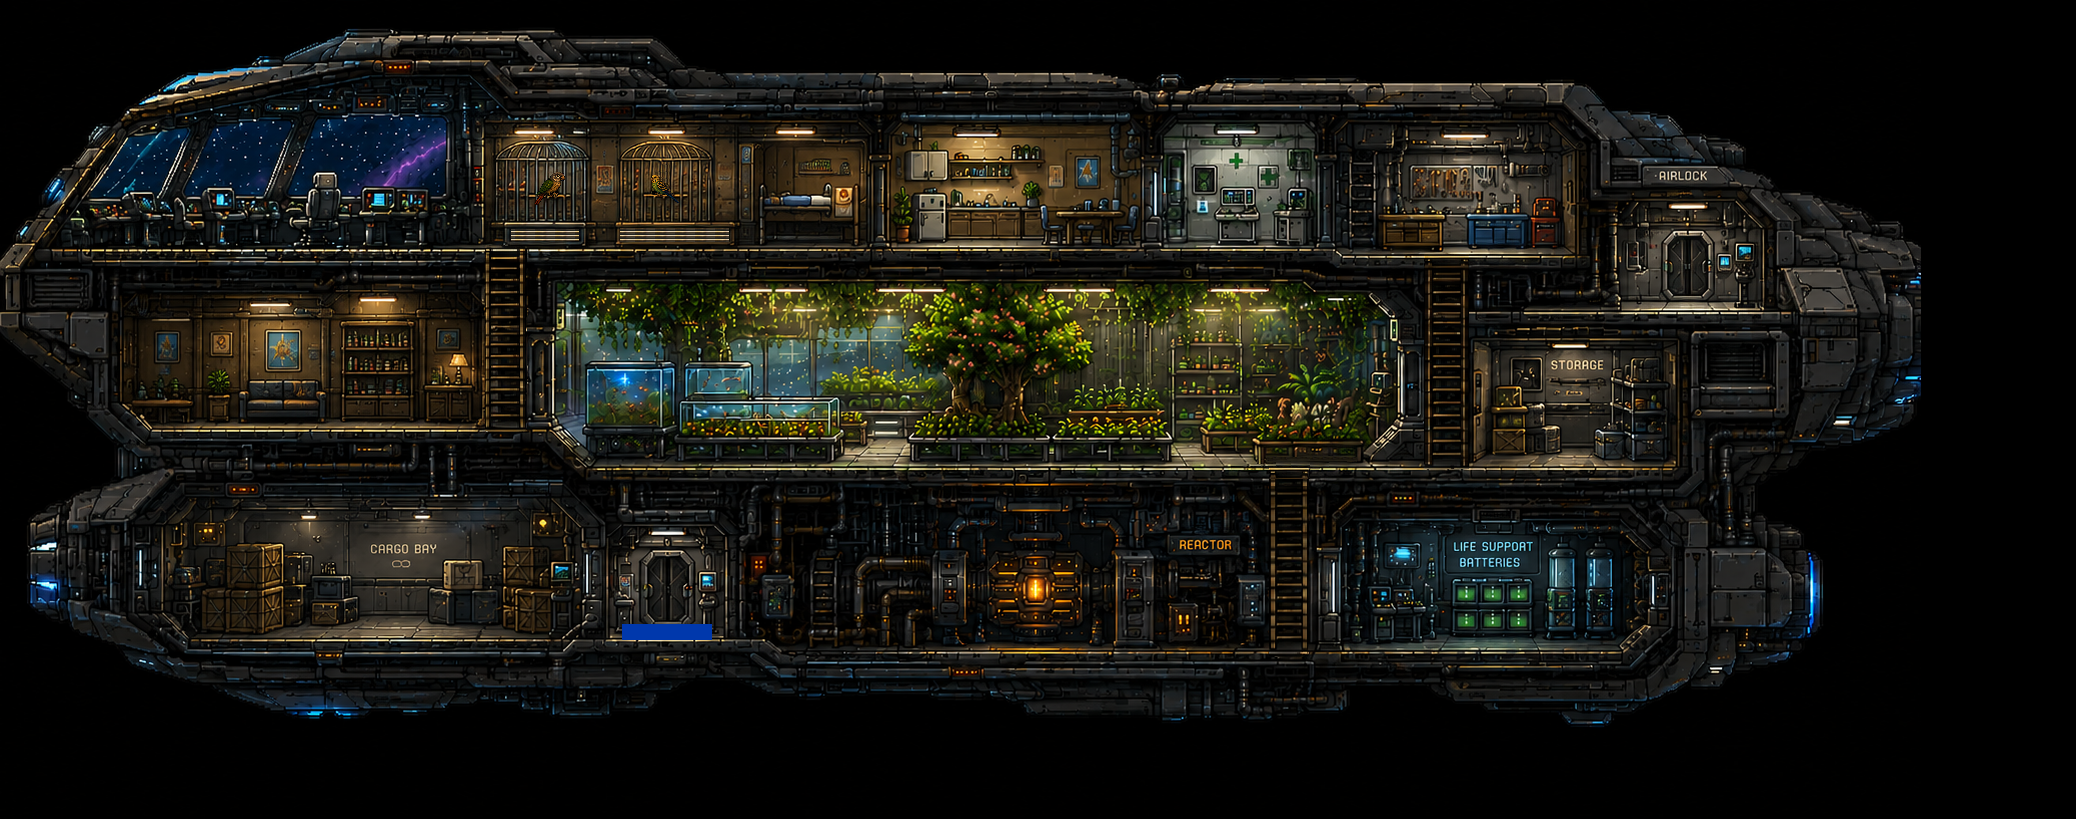
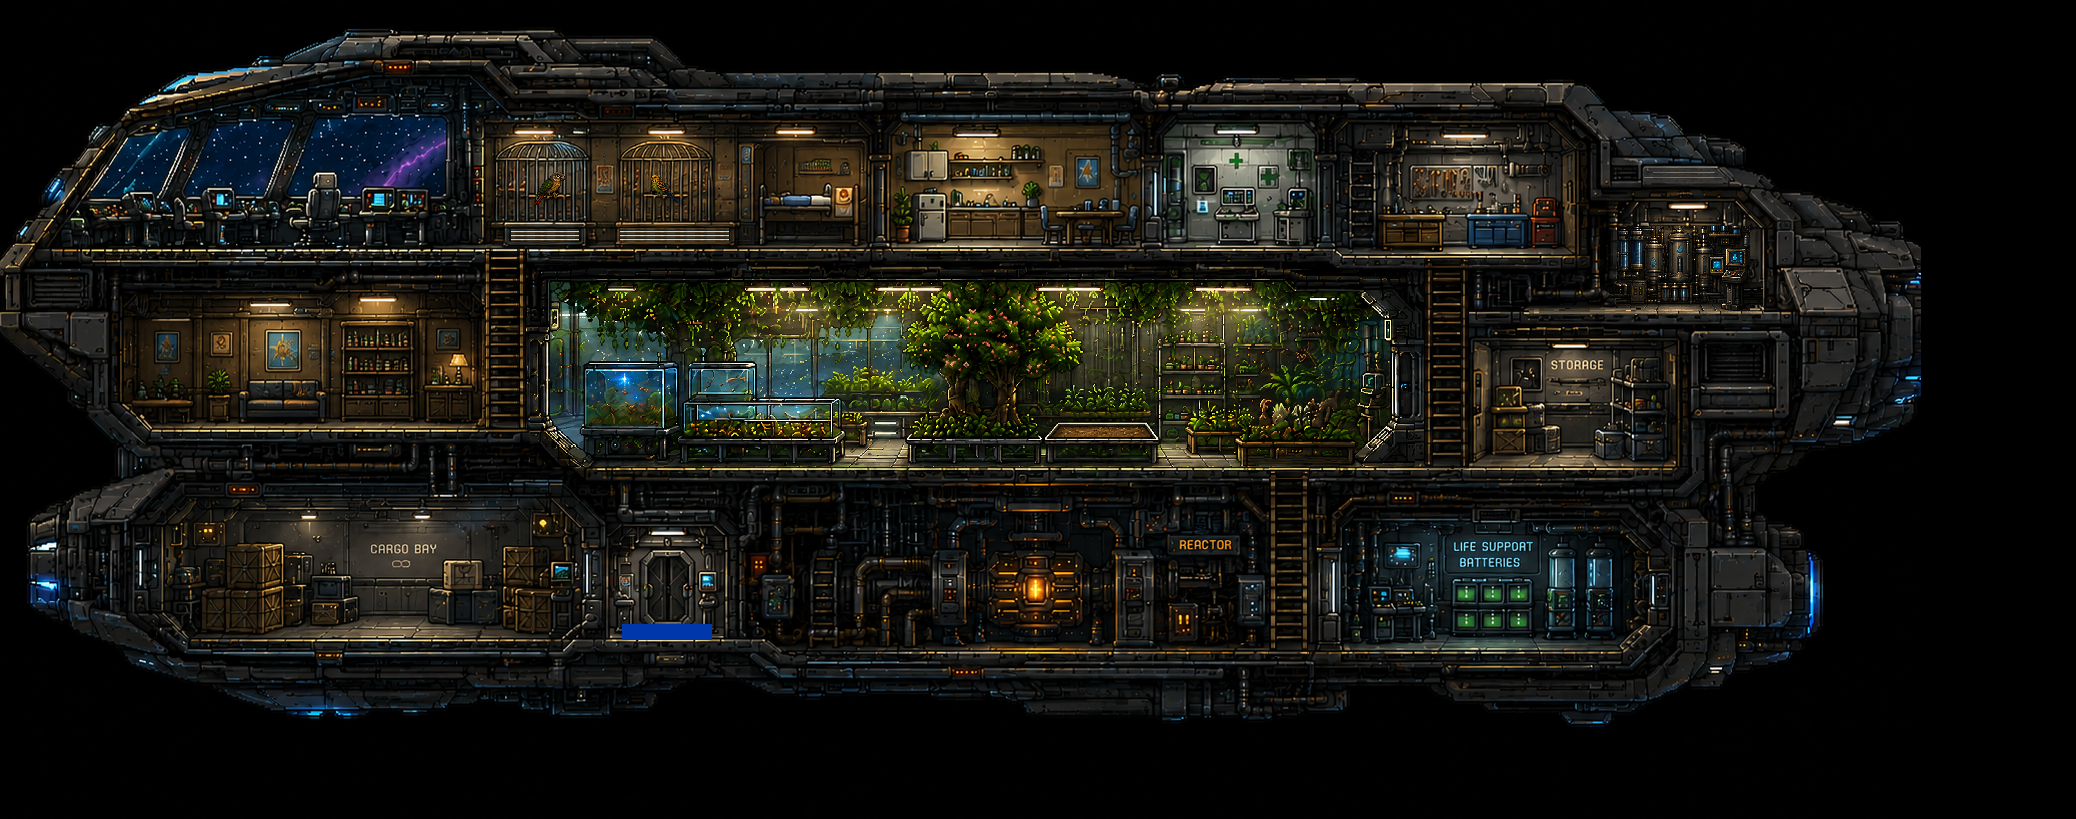
UpdateOne
Zoom features and a few fixes.

Changed region(s): [[0.2466, 0.3358, 0.6782, 0.58], [0.7399, 0.2747, 0.8632, 0.3968], [0.8015, 0.2137, 0.8324, 0.2442]]

diff --git a/src/world.js b/src/world.js
@@ -5,13 +5,29 @@ const PLAYER_HEIGHT = 64;
 const WALK_SPEED = 210;
 const CLIMB_SPEED = 125;
 const ANIMATION_FRAME_SECONDS = 0.13;
+const DEFAULT_ZOOM = 4;
+const MIN_ZOOM = 1;
+const MAX_ZOOM = 4;
+const ZOOM_STEP = 0.5;
+const TAP_DRAG_TOLERANCE = 10;
+const AIRLOCK_SCAFFOLD_PATCH = Object.freeze({
+  sourceX: 532,
+  sourceY: 624,
+  x: 622,
+  y: 624,
+  width: 90,
+  height: 16
+});
 
 export class EchoWorld {
-  constructor({ canvas, hint, locationReadout, saveSystem }) {
+  constructor({ canvas, hint, locationReadout, zoomOutButton, zoomInButton, zoomReadout, saveSystem }) {
     this.canvas = canvas;
     this.context = canvas.getContext("2d", { alpha: false });
     this.hint = hint;
     this.locationReadout = locationReadout;
+    this.zoomOutButton = zoomOutButton;
+    this.zoomInButton = zoomInButton;
+    this.zoomReadout = zoomReadout;
     this.saveSystem = saveSystem;
     this.images = new Map();
     this.readyPromise = null;
@@ -21,11 +37,22 @@ export class EchoWorld {
     this.scale = 1;
     this.cameraX = 0;
     this.cameraY = 0;
+    this.zoom = DEFAULT_ZOOM;
     this.cssWidth = 1;
     this.cssHeight = 1;
+    this.pointers = new Map();
+    this.pinching = false;
+    this.pinchStartDistance = 0;
+    this.pinchStartZoom = DEFAULT_ZOOM;
     this.state = this.#makeInitialState();
 
-    this.canvas.addEventListener("pointerdown", (event) => this.#setTarget(event));
+    this.canvas.addEventListener("pointerdown", (event) => this.#onPointerDown(event));
+    this.canvas.addEventListener("pointermove", (event) => this.#onPointerMove(event));
+    this.canvas.addEventListener("pointerup", (event) => this.#onPointerEnd(event));
+    this.canvas.addEventListener("pointercancel", (event) => this.#onPointerEnd(event));
+    this.canvas.addEventListener("wheel", (event) => this.#onWheel(event), { passive: false });
+    this.zoomOutButton?.addEventListener("click", () => this.#setZoom(this.zoom - ZOOM_STEP));
+    this.zoomInButton?.addEventListener("click", () => this.#setZoom(this.zoom + ZOOM_STEP));
     window.addEventListener("resize", () => this.resize());
     window.addEventListener("pagehide", () => this.persist());
     document.addEventListener("visibilitychange", () => {
@@ -69,6 +96,8 @@ export class EchoWorld {
       queuedAction: null,
       animationClock: 0
     };
+    this.zoom = DEFAULT_ZOOM;
+    this.#updateZoomControls();
     this.#syncLocationReadout();
     this.hint.textContent = "Tap a deck, ladder, or object to interact";
     this.hint.classList.remove("is-dismissed");
@@ -82,6 +111,8 @@ export class EchoWorld {
   stop() {
     this.persist();
     this.running = false;
+    this.pointers.clear();
+    this.pinching = false;
     cancelAnimationFrame(this.frameRequest);
   }
 
@@ -122,16 +153,86 @@ export class EchoWorld {
     };
   }
 
-  #setTarget(event) {
+  #onPointerDown(event) {
     if (!this.running) {
       return;
     }
 
     event.preventDefault();
+    this.canvas.setPointerCapture?.(event.pointerId);
+    this.pointers.set(event.pointerId, {
+      x: event.clientX,
+      y: event.clientY,
+      startX: event.clientX,
+      startY: event.clientY,
+      moved: false
+    });
+
+    if (this.pointers.size === 2) {
+      this.pinching = true;
+      this.pinchStartDistance = this.#pointerDistance();
+      this.pinchStartZoom = this.zoom;
+    }
+  }
+
+  #onPointerMove(event) {
+    const pointer = this.pointers.get(event.pointerId);
+
+    if (!pointer) {
+      return;
+    }
+
+    event.preventDefault();
+    pointer.x = event.clientX;
+    pointer.y = event.clientY;
+    pointer.moved ||= Math.hypot(pointer.x - pointer.startX, pointer.y - pointer.startY) > TAP_DRAG_TOLERANCE;
+
+    if (this.pointers.size < 2 || this.pinchStartDistance <= 0) {
+      return;
+    }
+
+    const distance = this.#pointerDistance();
+    this.#setZoom(this.pinchStartZoom * distance / this.pinchStartDistance);
+  }
+
+  #onPointerEnd(event) {
+    const pointer = this.pointers.get(event.pointerId);
+
+    if (!pointer) {
+      return;
+    }
+
+    event.preventDefault();
+    const suppressTap = this.pinching || pointer.moved || event.type === "pointercancel";
+    this.pointers.delete(event.pointerId);
+
+    if (this.pointers.size < 2) {
+      this.pinchStartDistance = 0;
+    }
+
+    if (this.pointers.size === 0) {
+      this.pinching = false;
+
+      if (!suppressTap) {
+        this.#setTarget(event.clientX, event.clientY);
+      }
+    }
+  }
+
+  #onWheel(event) {
+    if (!this.running) {
+      return;
+    }
+
+    event.preventDefault();
+    this.#setZoom(this.zoom + (event.deltaY < 0 ? ZOOM_STEP : -ZOOM_STEP));
+  }
+
+  #setTarget(clientX, clientY) {
     const rect = this.canvas.getBoundingClientRect();
     const worldPoint = {
-      x: this.cameraX + (event.clientX - rect.left) / this.scale,
-      y: this.cameraY + (event.clientY - rect.top) / this.scale
+      x: this.cameraX + (clientX - rect.left) / this.scale,
+      y: this.cameraY + (clientY - rect.top) / this.scale
     };
 
     if (this.state.activeAction) {
@@ -441,7 +542,8 @@ export class EchoWorld {
   }
 
   #placeCamera() {
-    this.scale = this.#clamp(this.cssHeight / WORLD.height, 0.44, 1.5);
+    const fittedScale = this.#clamp(this.cssHeight / WORLD.height, 0.44, 1.5);
+    this.scale = fittedScale * this.zoom;
     const viewWidth = this.cssWidth / this.scale;
     const viewHeight = this.cssHeight / this.scale;
     this.cameraX = this.#clamp(this.state.x - viewWidth / 2, 0, Math.max(0, WORLD.width - viewWidth));
@@ -465,6 +567,18 @@ export class EchoWorld {
 
     if (interior) {
       context.drawImage(interior, 0, 0, WORLD.width, WORLD.height);
+      const patch = AIRLOCK_SCAFFOLD_PATCH;
+      context.drawImage(
+        interior,
+        patch.sourceX,
+        patch.sourceY,
+        patch.width,
+        patch.height,
+        patch.x,
+        patch.y,
+        patch.width,
+        patch.height
+      );
     }
 
     this.#drawPlayer(context);
@@ -532,6 +646,39 @@ export class EchoWorld {
       image.addEventListener("error", () => reject(new Error(`Unable to load ${source}`)), { once: true });
       image.src = source;
     });
+  }
+
+  #setZoom(value) {
+    const nextZoom = this.#clamp(value, MIN_ZOOM, MAX_ZOOM);
+
+    if (Math.abs(nextZoom - this.zoom) < 0.001) {
+      return;
+    }
+
+    this.zoom = nextZoom;
+    this.#placeCamera();
+    this.#draw();
+    this.#updateZoomControls();
+  }
+
+  #updateZoomControls() {
+    if (this.zoomReadout) {
+      this.zoomReadout.value = `${Math.round(100 / this.zoom)}% view`;
+      this.zoomReadout.textContent = this.zoomReadout.value;
+    }
+
+    if (this.zoomOutButton) {
+      this.zoomOutButton.disabled = this.zoom <= MIN_ZOOM + 0.001;
+    }
+
+    if (this.zoomInButton) {
+      this.zoomInButton.disabled = this.zoom >= MAX_ZOOM - 0.001;
+    }
+  }
+
+  #pointerDistance() {
+    const [first, second] = Array.from(this.pointers.values());
+    return first && second ? Math.hypot(second.x - first.x, second.y - first.y) : 0;
   }
 
   #clamp(value, min, max) {

diff --git a/styles/game.css b/styles/game.css
@@ -347,10 +347,11 @@ button:disabled {
   display: flex;
   align-items: flex-start;
   justify-content: space-between;
+  gap: 8px;
   pointer-events: none;
 }
 
-.game-hud div {
+.location-panel {
   border-left: 3px solid var(--cyan);
   padding: 7px 10px;
   background: rgba(2, 5, 8, 0.76);
@@ -374,12 +375,47 @@ button:disabled {
 
 .game-hud button {
   border: 1px solid rgba(179, 208, 215, 0.48);
-  padding: 8px 14px;
+  min-width: 42px;
+  min-height: 42px;
+  padding: 8px 12px;
   background: rgba(2, 5, 8, 0.82);
   cursor: pointer;
   pointer-events: auto;
   font-size: 0.7rem;
   text-transform: uppercase;
+}
+
+.game-hud-actions,
+.zoom-controls {
+  display: flex;
+  align-items: stretch;
+  gap: 5px;
+}
+
+.game-hud-actions {
+  pointer-events: auto;
+}
+
+.zoom-controls {
+  border: 1px solid rgba(121, 197, 211, 0.2);
+  padding: 3px;
+  background: rgba(2, 5, 8, 0.72);
+}
+
+.zoom-controls button {
+  padding: 5px 10px;
+  color: var(--cyan);
+  font-size: 1.05rem;
+  line-height: 1;
+}
+
+#zoom-readout {
+  display: grid;
+  min-width: 50px;
+  place-items: center;
+  color: var(--muted);
+  font-size: 0.58rem;
+  letter-spacing: 0.06em;
 }
 
 .movement-hint {
@@ -626,6 +662,10 @@ button:disabled {
 
   .dialogue-choice {
     flex: 1 1 140px;
+  }
+
+  #zoom-readout {
+    display: none;
   }
 }
 

diff --git a/index.html b/index.html
@@ -48,11 +48,18 @@
     <section id="game-screen" class="screen game-screen" aria-label="The Echo" hidden>
       <canvas id="game-canvas" aria-label="The interior of the Echo"></canvas>
       <header class="game-hud">
-        <div>
+        <div class="location-panel">
           <span>Location</span>
           <strong id="location-readout">The Echo · Airlock Deck</strong>
         </div>
-        <button id="return-menu-button" type="button">Menu</button>
+        <div class="game-hud-actions">
+          <div class="zoom-controls" role="group" aria-label="Camera zoom">
+            <button id="zoom-out-button" type="button" aria-label="Zoom out">−</button>
+            <output id="zoom-readout" aria-live="polite">25% view</output>
+            <button id="zoom-in-button" type="button" aria-label="Zoom in">+</button>
+          </div>
+          <button id="return-menu-button" type="button">Menu</button>
+        </div>
       </header>
       <p id="movement-hint" class="movement-hint">Tap the deck to move</p>
     </section>

diff --git a/src/main.js b/src/main.js
@@ -24,6 +24,9 @@ const elements = {
   titleCardKicker: byId("title-card-kicker"),
   titleCardTitle: byId("title-card-title"),
   titleCardCredit: byId("title-card-credit"),
+  zoomOutButton: byId("zoom-out-button"),
+  zoomInButton: byId("zoom-in-button"),
+  zoomReadout: byId("zoom-readout"),
   returnMenuButton: byId("return-menu-button"),
   loadingScreen: byId("loading-screen")
 };
@@ -46,6 +49,9 @@ const world = new EchoWorld({
   canvas: byId("game-canvas"),
   hint: byId("movement-hint"),
   locationReadout: byId("location-readout"),
+  zoomOutButton: elements.zoomOutButton,
+  zoomInButton: elements.zoomInButton,
+  zoomReadout: elements.zoomReadout,
   saveSystem
 });
 

diff --git a/src/opening.js b/src/opening.js
@@ -119,7 +119,7 @@ export class OpeningSequence {
       }
 
       if (value === 8) {
-        this.#showTitleCard("", "Black Candle Labs", "Lead Developer · Kevin Klinkert");
+        this.#showTitleCard("", "Black Candle Labs", "Developer · Kevin Klinkert");
       } else if (value === 5) {
         this.#showTitleCard("", "Echoes of Earth", "");
       } else if (value === 1) {

diff --git a/README.md b/README.md
@@ -15,21 +15,12 @@ The current build includes:
 - A persistent local save created at the Echo airlock
 - Touch-to-move Cosmonaut gameplay across four decks and three ladders
 - Precisely aligned bridge-sitting and sleeping interactions
+- A 25%-view close-up ship camera by default, with button, wheel, and pinch zoom out to 100%
 
 Opening dialogue is kept in `src/config.js` so it can be rewritten without changing the sequence engine.
 
 Editable sound cues live in `Assets/Audio/SFX`. The generated interface, dialogue, and countdown tick settings are in `scripts/generate-audio-assets.mjs`; the authored `Rocket Launch.wav` begins at T−07 and hands off at its audible ending to `RocketDead.wav`.
 
-## Run locally
-
-The game has no package dependencies. With Node.js 18 or newer installed:
-
-```sh
-npm run check
-npm start
-```
-
-Open `http://127.0.0.1:4173` in a browser. To make the preview reachable from other devices on a trusted local network, set `HOST` to `0.0.0.0` before starting the server. The `PORT` environment variable can be used to select a different port.
 
 ## Mobile direction
 
